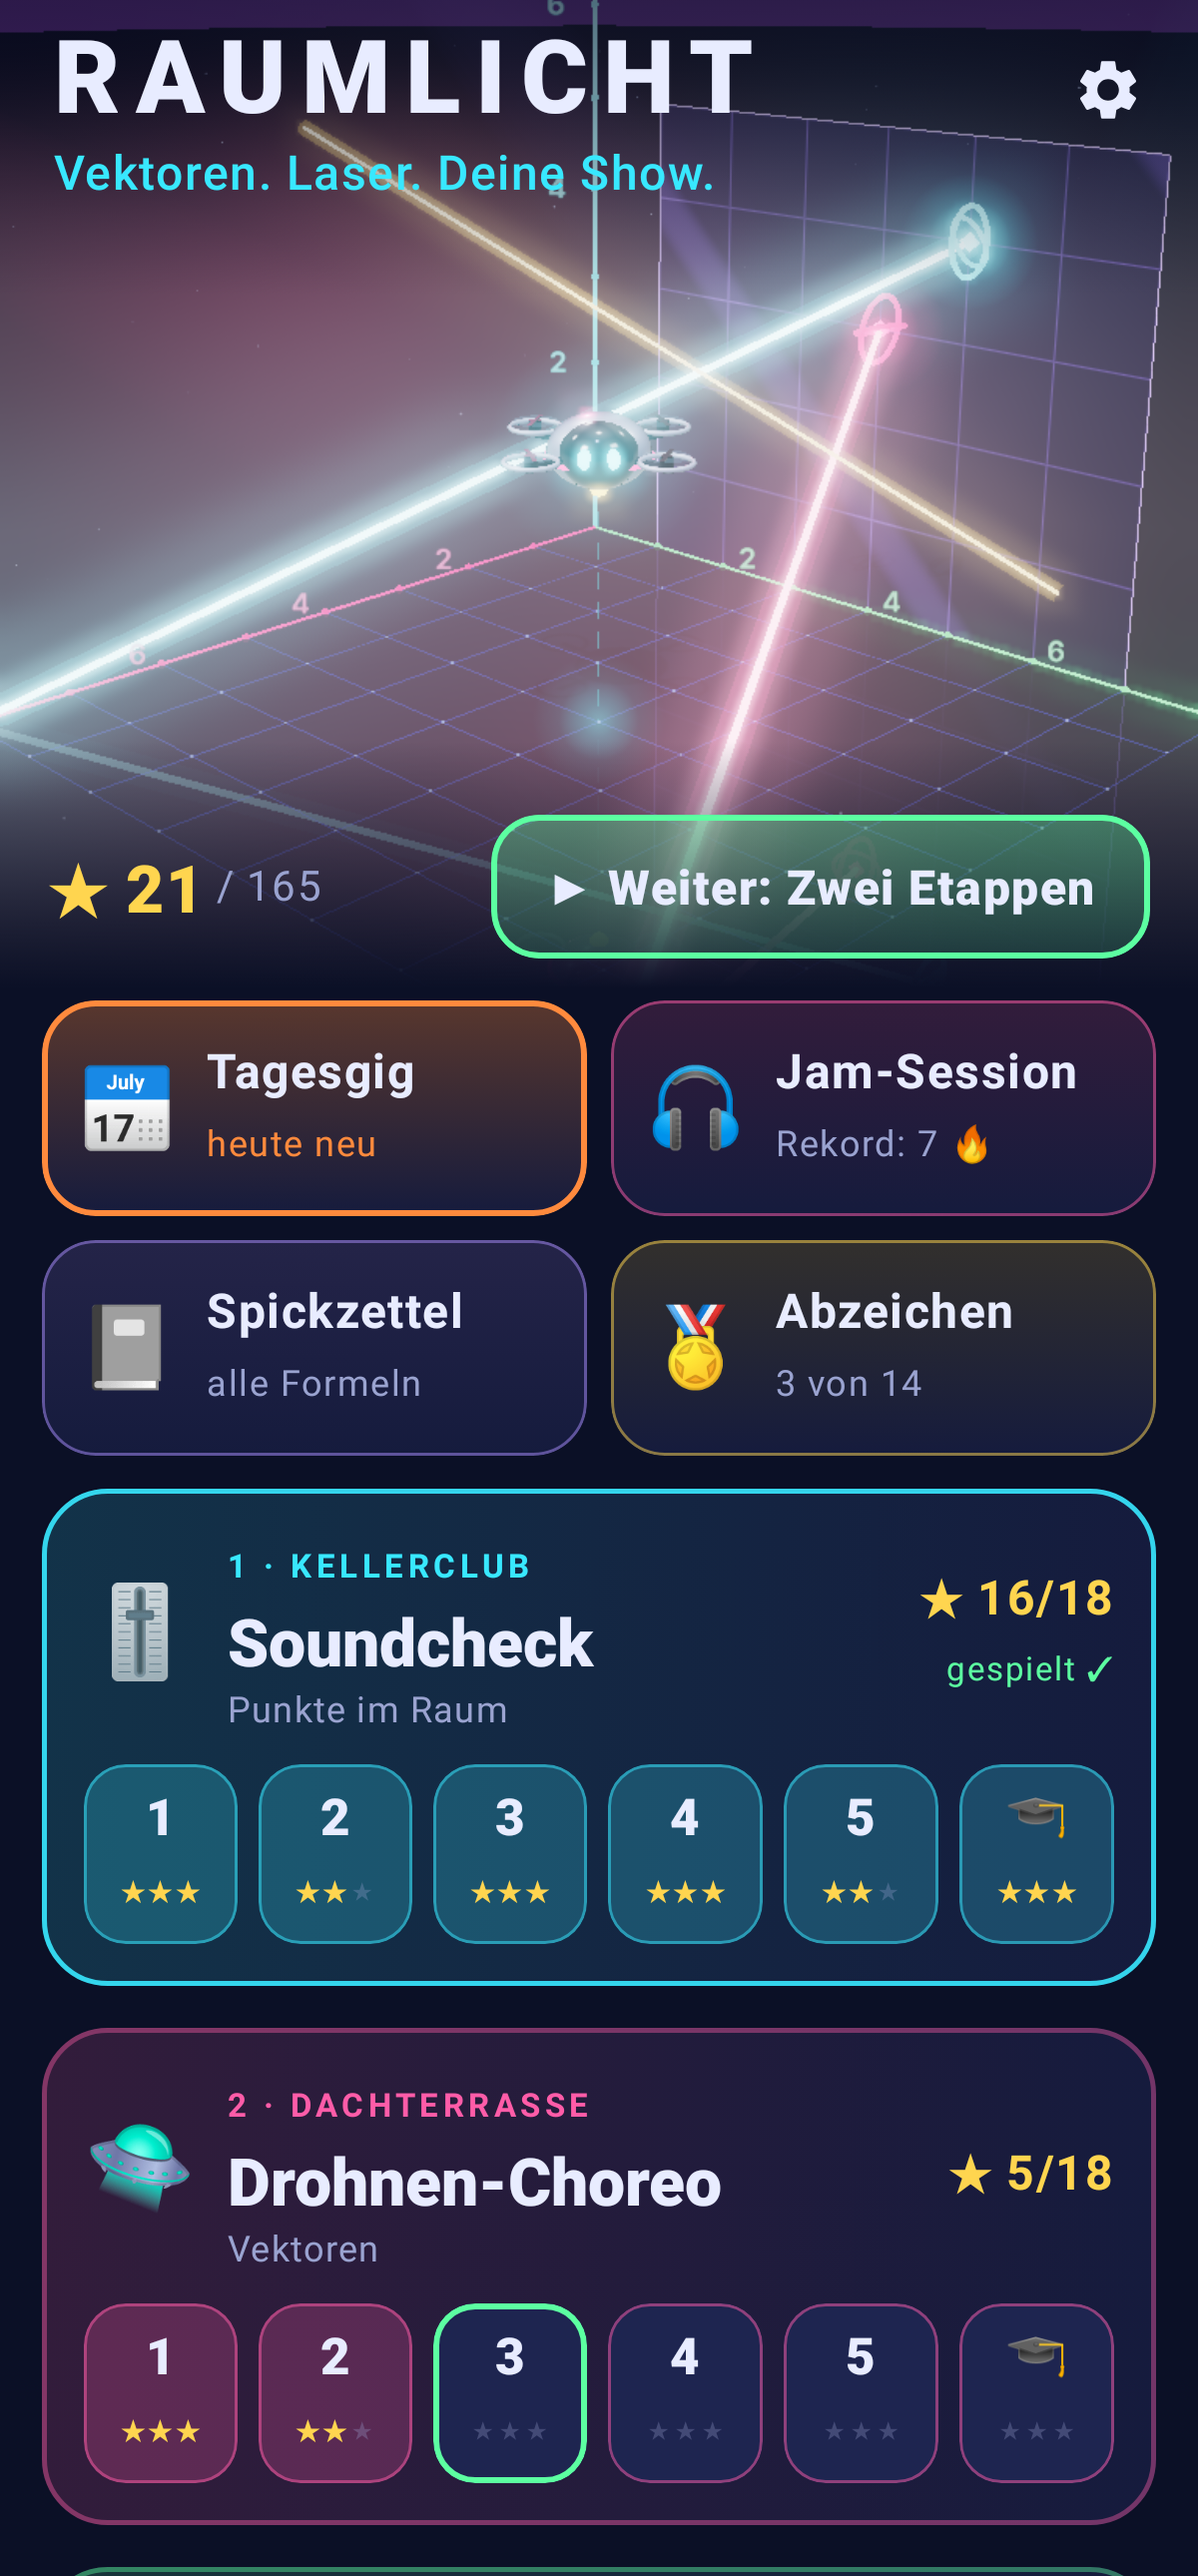
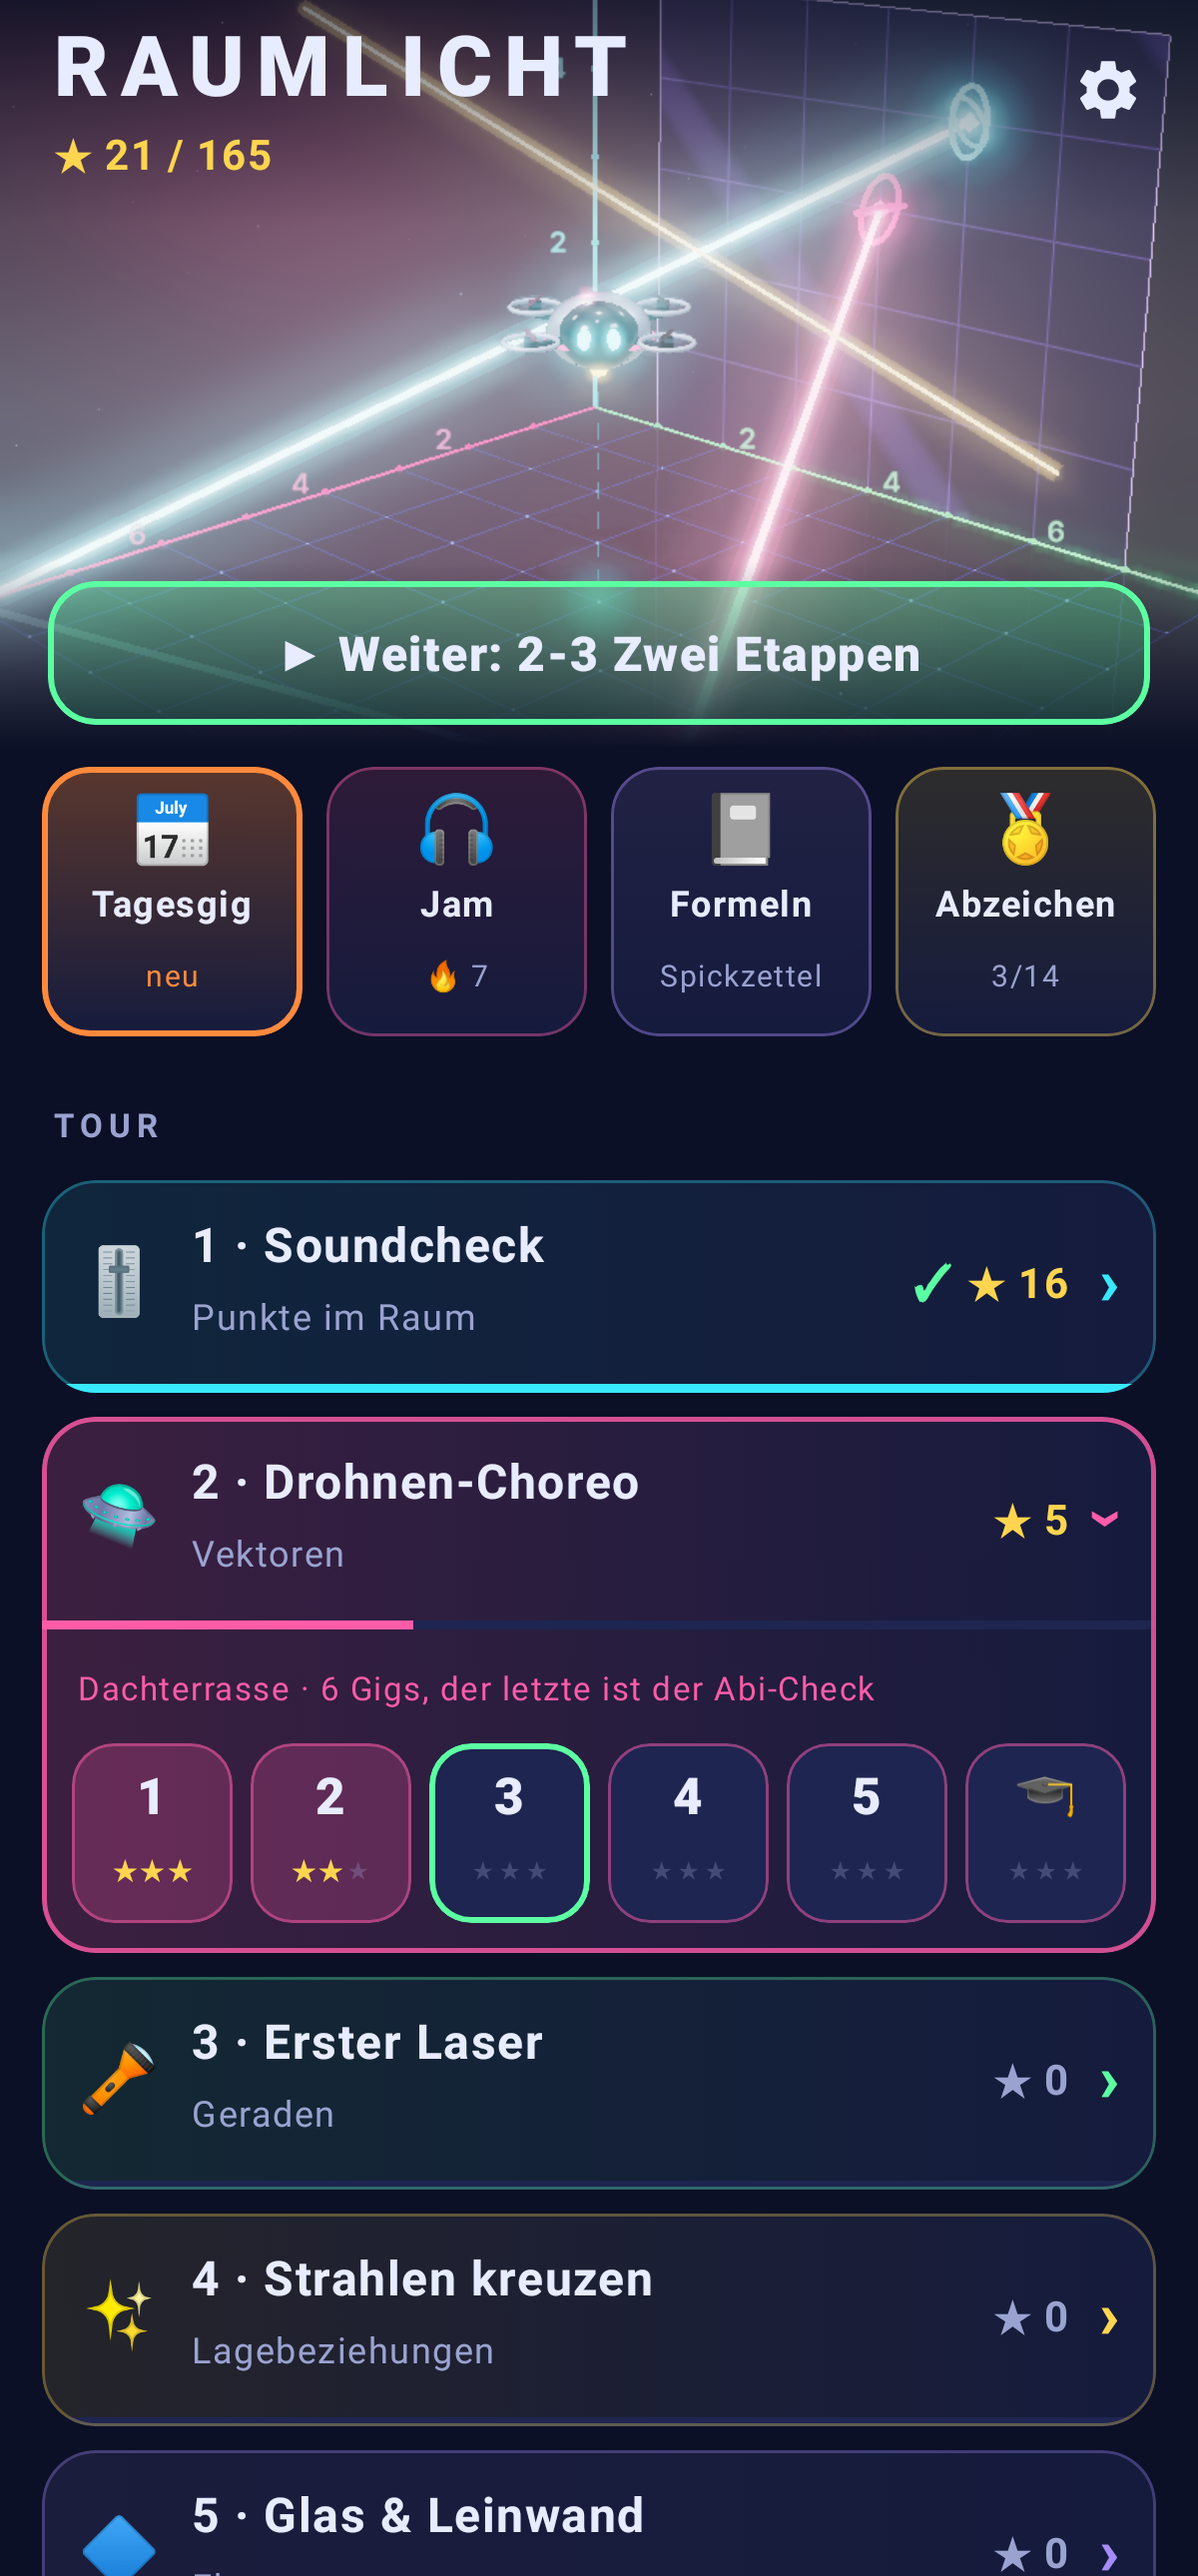
Raumlicht 0.2.1: Startseite aufgeräumt (kompakte Kapitel-Liste zum Aufklappen, schmale Leiste)
Claude-Session: https://claude.ai/code/session_015vg1TkCEYsXkAEYjbLFPi2

diff --git a/raumlicht/app/src/main/java/de/raumlicht/app/ui/home/HomeScreen.kt b/raumlicht/app/src/main/java/de/raumlicht/app/ui/home/HomeScreen.kt
@@ -12,6 +12,10 @@ import androidx.compose.material.icons.Icons
 import androidx.compose.material.icons.filled.Settings
 import androidx.compose.material3.*
 import androidx.compose.runtime.*
+import androidx.compose.runtime.saveable.rememberSaveable
+import androidx.compose.animation.animateContentSize
+import androidx.compose.animation.core.animateFloatAsState
+import androidx.compose.animation.core.spring
 import androidx.compose.ui.Alignment
 import androidx.compose.ui.Modifier
 import androidx.compose.ui.draw.clip
@@ -43,35 +47,33 @@ fun HomeScreen(
 ) {
     val total = chapters.sumOf { c -> c.levels.sumOf { stars[it.id] ?: 0 } }; val max = chapters.sumOf { it.levels.size } * 3
     val next = chapters.flatMap { it.levels }.firstOrNull { (stars[it.id] ?: 0) == 0 }
+    // Aufgeklappt ist immer nur ein Kapitel – zu Beginn das, in dem es weitergeht
+    var open by rememberSaveable { mutableIntStateOf(next?.chapter ?: 1) }
     LaunchedEffect(controller) { controller.setState(Showreel.scene()); controller.camera(az = 0.75, el = 0.3, dist = 17.0) }
     // Alle paar Sekunden ein kleiner Lichtblitz – die Bühne lebt
     LaunchedEffect(controller) { while (true) { delay(6000); controller.party(1.2) } }
 
     LazyColumn(Modifier.fillMaxSize().background(Q.Space), contentPadding = PaddingValues(bottom = 24.dp)) {
         item {
-            Box(Modifier.fillMaxWidth().height(330.dp)) {
+            Box(Modifier.fillMaxWidth().height(250.dp)) {
                 Stage(controller, Modifier.fillMaxSize())
                 Box(Modifier.fillMaxSize().background(Brush.verticalGradient(0f to Q.Space.copy(alpha = 0.55f), 0.3f to Color.Transparent, 0.75f to Color.Transparent, 1f to Q.Space)))
                 Row(Modifier.fillMaxWidth().statusBarsPadding().padding(start = 18.dp, end = 6.dp, top = 6.dp), verticalAlignment = Alignment.Top) {
                     Column(Modifier.weight(1f)) {
-                        Text("RAUMLICHT", fontSize = 34.sp, fontWeight = FontWeight.Black, letterSpacing = 5.sp, color = Q.Text)
-                        Text("Vektoren. Laser. Deine Show.", color = Q.Cyan, fontWeight = FontWeight.Medium)
+                        Text("RAUMLICHT", fontSize = 28.sp, fontWeight = FontWeight.Black, letterSpacing = 4.sp, color = Q.Text)
+                        Text("★ $total / $max", color = Q.Yellow, fontWeight = FontWeight.Bold, fontSize = 14.sp)
                     }
                     IconButton(onClick = onSettings) { Icon(Icons.Default.Settings, "Einstellungen", tint = Q.Text) }
                 }
-                Row(Modifier.align(Alignment.BottomStart).padding(horizontal = 16.dp, vertical = 10.dp), verticalAlignment = Alignment.CenterVertically) {
-                    Text("★ $total", color = Q.Yellow, fontWeight = FontWeight.Black, fontSize = 22.sp)
-                    Text(" / $max", color = Q.Muted, fontSize = 14.sp)
-                    Spacer(Modifier.weight(1f))
-                    if (next != null) NeonButton({ onLevel(next.id) }, Modifier.pulse(true, 0.03f), color = Q.Green) {
-                        Text(if (total == 0) "▶ Tour starten" else "▶ Weiter: ${next.title}", fontWeight = FontWeight.Black)
-                    }
+                if (next != null) NeonButton({ onLevel(next.id) }, Modifier.align(Alignment.BottomCenter).fillMaxWidth().padding(horizontal = 16.dp, vertical = 8.dp).pulse(true, 0.02f), color = Q.Green) {
+                    Text(if (total == 0) "▶ Tour starten" else "▶ Weiter: ${next.id} ${next.title}", fontWeight = FontWeight.Black, maxLines = 1)
                 }
             }
         }
         if (updateVersion != null) item { de.raumlicht.app.ui.settings.UpdateBanner(updateVersion, onUpdate) }
         item { ModeTiles(dailyDone, jamBest, badges, badgeCount, onDaily, onJam, onSheet, onBadges) }
-        itemsIndexed(chapters) { _, c -> ChapterCard(c, stars, next?.id, onLevel) }
+        item { Text("TOUR", Modifier.padding(start = 18.dp, top = 12.dp, bottom = 2.dp), color = Q.Muted, fontSize = 11.sp, fontWeight = FontWeight.Bold, letterSpacing = 2.sp) }
+        itemsIndexed(chapters) { _, c -> ChapterCard(c, stars, next?.id, open == c.number, { open = if (open == c.number) -1 else c.number }, onLevel) }
         item {
             Text("Analytische Geometrie der Oberstufe · keine Werbung · keine Anmeldung", Modifier.fillMaxWidth().padding(20.dp),
                 color = Q.Muted, fontSize = 11.sp, textAlign = androidx.compose.ui.text.style.TextAlign.Center)
@@ -80,25 +82,32 @@ fun HomeScreen(
 }
 
 @Composable
-private fun ChapterCard(c: Chapter, stars: Map<String, Int>, nextId: String?, onLevel: (String) -> Unit) {
+private fun ChapterCard(c: Chapter, stars: Map<String, Int>, nextId: String?, expanded: Boolean, onToggle: () -> Unit, onLevel: (String) -> Unit) {
     val accent = stageColor(c.color)
-    val got = c.levels.sumOf { stars[it.id] ?: 0 }; val done = c.levels.all { (stars[it.id] ?: 0) > 0 }
-    Column(Modifier.fillMaxWidth().padding(horizontal = 14.dp, vertical = 7.dp)
-        .background(Brush.horizontalGradient(listOf(accent.copy(alpha = 0.16f), Q.Deep)), RoundedCornerShape(22.dp))
-        .border(1.5.dp, accent.copy(alpha = if (done) 0.9f else 0.4f), RoundedCornerShape(22.dp)).padding(14.dp)) {
-        Row(verticalAlignment = Alignment.CenterVertically) {
-            Text(c.emoji, fontSize = 30.sp)
+    val got = c.levels.sumOf { stars[it.id] ?: 0 }; val played = c.levels.count { (stars[it.id] ?: 0) > 0 }; val done = played == c.levels.size
+    val turn by animateFloatAsState(if (expanded) 90f else 0f, spring(dampingRatio = 0.6f), label = "pfeil")
+    val head = remember { MutableInteractionSource() }
+    Column(Modifier.fillMaxWidth().padding(horizontal = 14.dp, vertical = 4.dp).clip(RoundedCornerShape(18.dp))
+        .background(Brush.horizontalGradient(listOf(accent.copy(alpha = if (expanded) 0.2f else 0.1f), Q.Deep)))
+        .border(if (expanded) 1.5.dp else 1.dp, accent.copy(alpha = if (expanded) 0.8f else 0.3f), RoundedCornerShape(18.dp))
+        .animateContentSize(spring(dampingRatio = 0.75f, stiffness = 400f))) {
+        Row(Modifier.fillMaxWidth().clickable(head, null, onClick = onToggle).padding(horizontal = 12.dp, vertical = 10.dp), verticalAlignment = Alignment.CenterVertically) {
+            Text(c.emoji, fontSize = 22.sp)
             Column(Modifier.weight(1f).padding(start = 10.dp)) {
-                Text("${c.number} · ${c.venue}".uppercase(), color = accent, fontSize = 11.sp, fontWeight = FontWeight.Bold, letterSpacing = 1.5.sp)
-                Text(c.title, style = MaterialTheme.typography.titleLarge)
-                Text(c.topic, color = Q.Muted, style = MaterialTheme.typography.bodySmall)
+                Text("${c.number} · ${c.title}", fontWeight = FontWeight.Bold, fontSize = 16.sp, maxLines = 1)
+                Text(c.topic, color = Q.Muted, fontSize = 12.sp, maxLines = 1)
             }
-            Column(horizontalAlignment = Alignment.End) {
-                Text("★ $got/${c.levels.size * 3}", color = Q.Yellow, fontWeight = FontWeight.Bold)
-                if (done) Text("gespielt ✓", color = Q.Green, fontSize = 11.sp)
-            }
+            Text(if (done) "✓ " else "", color = Q.Green, fontWeight = FontWeight.Black)
+            Text("★ $got", color = if (got > 0) Q.Yellow else Q.Muted, fontWeight = FontWeight.Bold, fontSize = 14.sp)
+            Text("›", Modifier.padding(start = 10.dp).graphicsLayer { rotationZ = turn }, color = accent, fontSize = 22.sp, fontWeight = FontWeight.Black)
         }
-        Row(Modifier.fillMaxWidth().padding(top = 10.dp), horizontalArrangement = Arrangement.spacedBy(7.dp)) {
+        // Fortschrittsbalken: wie viele Gigs des Kapitels schon gespielt sind
+        Box(Modifier.fillMaxWidth().height(3.dp).background(Q.Panel)) {
+            Box(Modifier.fillMaxWidth(played / c.levels.size.toFloat()).fillMaxHeight().background(accent))
+        }
+        if (expanded) {
+            Text("${c.venue} · ${c.levels.size} Gigs, der letzte ist der Abi-Check", Modifier.padding(start = 12.dp, top = 8.dp), color = accent, fontSize = 11.sp)
+        Row(Modifier.fillMaxWidth().padding(start = 10.dp, end = 10.dp, top = 6.dp, bottom = 10.dp), horizontalArrangement = Arrangement.spacedBy(6.dp)) {
             c.levels.forEach { l ->
                 val s = stars[l.id] ?: 0
                 val interaction = remember { MutableInteractionSource() }
@@ -110,6 +119,7 @@ private fun ChapterCard(c: Chapter, stars: Map<String, Int>, nextId: String?, on
                     Box(Modifier.graphicsLayer { scaleX = 0.62f; scaleY = 0.62f }) { StarRow(s, lit = true, size = 16) }
                 }
             }
+        }
         }
     }
 }

diff --git a/raumlicht/app/src/main/java/de/raumlicht/app/ui/home/Extras.kt b/raumlicht/app/src/main/java/de/raumlicht/app/ui/home/Extras.kt
@@ -123,31 +123,25 @@ fun BadgesScreen(badges: List<Badge>, onBack: () -> Unit) {
     }
 }
 
-/** Vier Kacheln auf der Startseite: Tagesgig, Jam-Session, Spickzettel, Abzeichen. */
+/** Schmale Leiste auf der Startseite: Tagesgig, Jam-Session, Spickzettel, Abzeichen. */
 @Composable
 fun ModeTiles(dailyDone: Boolean, jamBest: Int, badges: Int, badgeCount: Int, onDaily: () -> Unit, onJam: () -> Unit, onSheet: () -> Unit, onBadges: () -> Unit) {
-    Column(Modifier.padding(horizontal = 14.dp, vertical = 4.dp), verticalArrangement = Arrangement.spacedBy(8.dp)) {
-        Row(horizontalArrangement = Arrangement.spacedBy(8.dp)) {
-            Tile("📅", "Tagesgig", if (dailyDone) "heute geschafft ✓" else "heute neu", Q.Orange, !dailyDone, Modifier.weight(1f), onDaily)
-            Tile("🎧", "Jam-Session", if (jamBest > 0) "Rekord: $jamBest 🔥" else "endlos üben", Q.Pink, false, Modifier.weight(1f), onJam)
-        }
-        Row(horizontalArrangement = Arrangement.spacedBy(8.dp)) {
-            Tile("📓", "Spickzettel", "alle Formeln", Q.Violet, false, Modifier.weight(1f), onSheet)
-            Tile("🏅", "Abzeichen", "$badges von $badgeCount", Q.Yellow, false, Modifier.weight(1f), onBadges)
-        }
+    Row(Modifier.padding(horizontal = 14.dp, vertical = 6.dp), horizontalArrangement = Arrangement.spacedBy(8.dp)) {
+        Tile("📅", "Tagesgig", if (dailyDone) "✓" else "neu", Q.Orange, !dailyDone, Modifier.weight(1f), onDaily)
+        Tile("🎧", "Jam", if (jamBest > 0) "🔥 $jamBest" else "endlos", Q.Pink, false, Modifier.weight(1f), onJam)
+        Tile("📓", "Formeln", "Spickzettel", Q.Violet, false, Modifier.weight(1f), onSheet)
+        Tile("🏅", "Abzeichen", "$badges/$badgeCount", Q.Yellow, false, Modifier.weight(1f), onBadges)
     }
 }
 
 @Composable
 private fun Tile(emoji: String, title: String, sub: String, color: androidx.compose.ui.graphics.Color, highlight: Boolean, modifier: Modifier, onClick: () -> Unit) {
     val interaction = remember { MutableInteractionSource() }
-    Row(modifier.pressBounce(interaction).clip(RoundedCornerShape(18.dp)).background(Brush.verticalGradient(listOf(color.copy(alpha = if (highlight) 0.32f else 0.16f), Q.Deep)))
-        .border(if (highlight) 2.dp else 1.dp, color.copy(alpha = if (highlight) 1f else 0.5f), RoundedCornerShape(18.dp)).clickable(interaction, null, onClick = onClick).padding(12.dp),
-        verticalAlignment = Alignment.CenterVertically) {
-        Text(emoji, fontSize = 26.sp)
-        Column(Modifier.padding(start = 10.dp)) {
-            Text(title, fontWeight = FontWeight.Bold, color = Q.Text)
-            Text(sub, color = if (highlight) color else Q.Muted, fontSize = 12.sp)
-        }
+    Column(modifier.pressBounce(interaction).clip(RoundedCornerShape(16.dp)).background(Brush.verticalGradient(listOf(color.copy(alpha = if (highlight) 0.32f else 0.14f), Q.Deep)))
+        .border(if (highlight) 2.dp else 1.dp, color.copy(alpha = if (highlight) 1f else 0.4f), RoundedCornerShape(16.dp)).clickable(interaction, null, onClick = onClick).padding(vertical = 8.dp),
+        horizontalAlignment = Alignment.CenterHorizontally) {
+        Text(emoji, fontSize = 22.sp)
+        Text(title, fontWeight = FontWeight.Bold, color = Q.Text, fontSize = 12.sp, maxLines = 1)
+        Text(sub, color = if (highlight) color else Q.Muted, fontSize = 10.sp, maxLines = 1)
     }
 }

diff --git a/raumlicht/CHANGELOG.md b/raumlicht/CHANGELOG.md
@@ -1,5 +1,10 @@
 # Änderungen
 
+## 0.2.1 – Aufgeräumt
+- **Startseite übersichtlicher:** Die Kapitel sind jetzt eine kompakte Liste mit Fortschrittsbalken. Aufgeklappt ist nur das Kapitel, in dem es weitergeht –
+  die anderen öffnen sich beim Antippen.
+- Tagesgig, Jam-Session, Spickzettel und Abzeichen stehen als schmale Leiste direkt unter der Bühne.
+
 ## 0.2.0 – Die große Tour
 - **4 neue Kapitel, 21 neue Gigs** (jetzt 55 in 10 Kapiteln):
   - 📐 **Winkel** – zwischen Vektoren, Gerade und Ebene, zwei Ebenen. Der Winkelbogen leuchtet in der Bühne.
